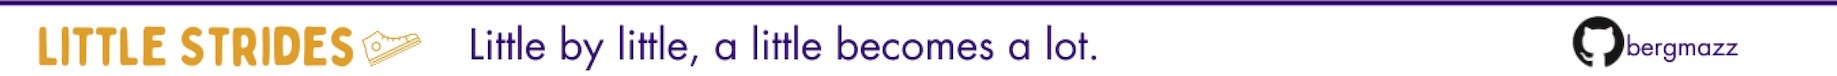
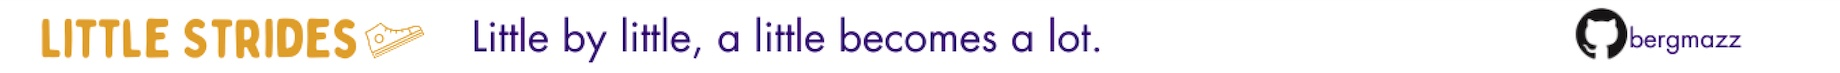
no border for footer

Changed region(s): [[0.0, 0.2192, 0.6206, 0.8767], [0.0, 0.0, 1.0, 0.0822], [0.8378, 0.1096, 0.9619, 0.8767]]

diff --git a/react-app/src/index.css b/react-app/src/index.css
@@ -2,6 +2,9 @@
 body{
     margin: 0
 }
+footer{
+  margin-top: 10px;
+}
 footer img {
   max-width: 100%;
   height: auto;
